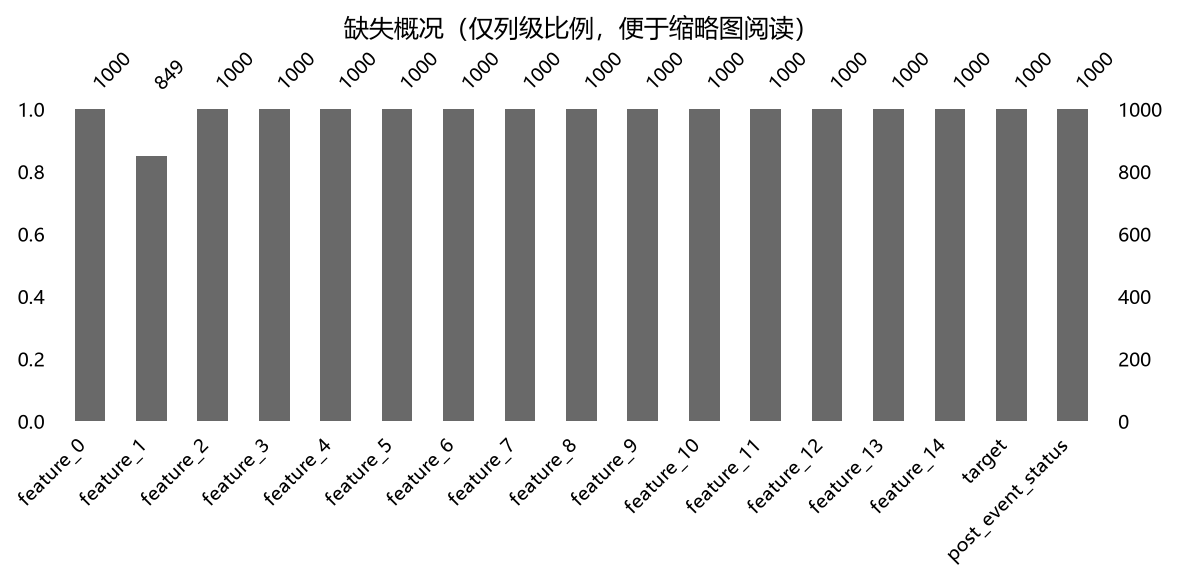
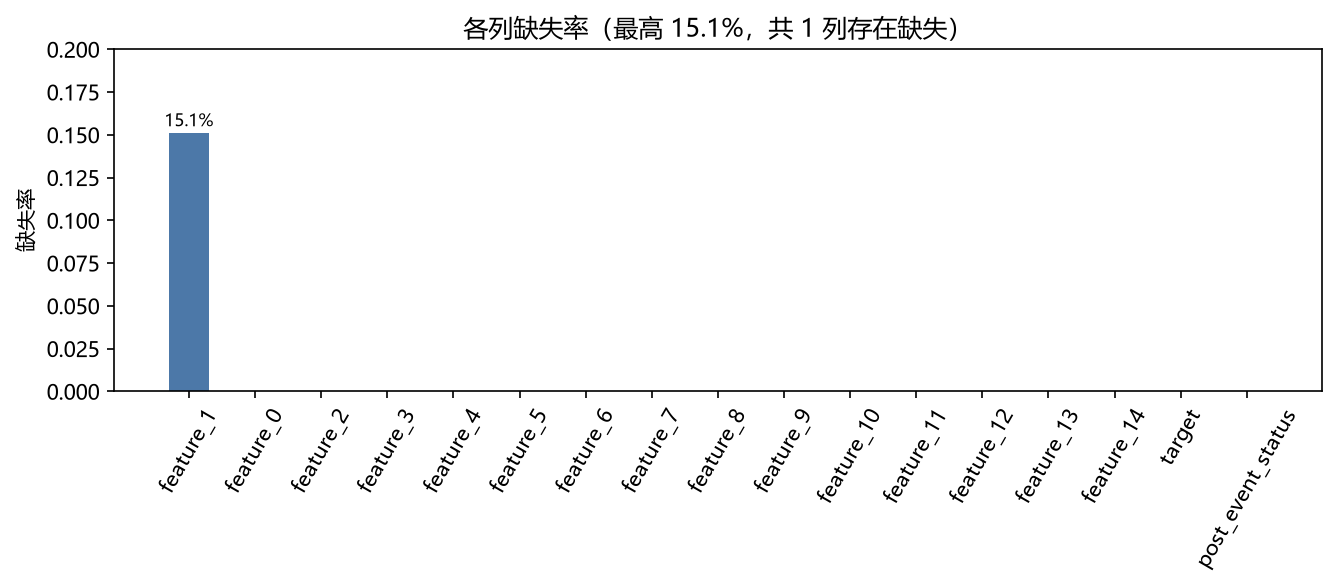
polish: 缺失率图改用真实缺失率，修正文案与数字不一致
- missing_bar.png: 不再用 msno.bar（画的是非空比例，柱子贴 1.0 会被读成 100% 缺失），
  改画各列缺失率、Y 轴 0-0.2、全部列并标注非零值
- 面板条目去掉重复的 AUC（列名后面已经带了 AUC）
- RESULTS: '脚本里没有列名字面量' 改为准确的'删除逻辑不硬编码列名'
- RESULTS: 新增第 5 节，记录真实数据集（UCI WDBC）上的处置决定：候选保留不删
- README: 测试数 20->26；删掉'尚未提供误报率基准'（已由第 3 节给出）
- pyproject: 移除不再使用的 missingno 依赖
- docs/screenshots/dashboard.png 换成能看见两个面板块的新截图

diff --git a/benchmarks/case_study.py b/benchmarks/case_study.py
@@ -17,7 +17,6 @@ from pathlib import Path
 os.environ.setdefault("MPLBACKEND", "Agg")
 
 import matplotlib.pyplot as plt  # noqa: E402
-import missingno as msno  # noqa: E402
 import numpy as np  # noqa: E402
 import pandas as pd  # noqa: E402
 import seaborn as sns  # noqa: E402
@@ -86,7 +85,7 @@ def run_case_study(df: pd.DataFrame) -> dict:
     X_all = df.drop(columns=["target"]).fillna(0)
     auc_with = cross_val_score(clf, X_all, y, cv=5, scoring="roc_auc").mean()
 
-    # 关键：删哪些列由工具输出决定，脚本里没有出现列名字面量
+    # 关键：删哪些列由工具输出决定，删除逻辑里不出现列名字面量
     X_clean = X_all.drop(columns=flagged)
     auc_without = cross_val_score(clf, X_clean, y, cv=5, scoring="roc_auc").mean()
 
@@ -273,11 +272,19 @@ def cluster_dedup() -> dict:
 def make_figures(df: pd.DataFrame) -> None:
     FIG.mkdir(parents=True, exist_ok=True)
 
-    # 图 1：缺失概况。只画有缺失的列 + 用 bar 而不是 matrix，
-    # 否则 1000×16 的矩阵在缩略图里就是一块黑。
-    plt.figure(figsize=(8, 4))
-    msno.bar(df, figsize=(8, 4), fontsize=9, labels=True)
-    plt.title("缺失概况（仅列级比例，便于缩略图阅读）")
+    # 图 1：缺失率。不用 msno.bar —— 它画的是非空比例，柱子齐刷刷贴到 1.0，
+    # 配上「缺失概况」的标题会被读成「每列 100% 缺失」。
+    # 全部列都画出来（哪怕缺失率是 0），这样「只有一列有缺失」也是一眼可见的信息。
+    rates = df.isna().mean().sort_values(ascending=False)
+    fig, ax = plt.subplots(figsize=(9, 4))
+    ax.bar(rates.index.astype(str), rates.values, color="#4c78a8", width=0.6)
+    ax.set_ylabel("缺失率")
+    ax.set_ylim(0, max(0.2, float(rates.max()) * 1.3))
+    ax.set_title(f"各列缺失率（最高 {rates.max():.1%}，共 {int((rates > 0).sum())} 列存在缺失）")
+    ax.tick_params(axis="x", rotation=60)
+    for i, v in enumerate(rates.values):
+        if v > 0:
+            ax.text(i, v + 0.004, f"{v:.1%}", ha="center", fontsize=8)
     plt.tight_layout()
     plt.savefig(FIG / "missing_bar.png", bbox_inches="tight", dpi=150)
     plt.close()
@@ -336,7 +343,7 @@ def write_results(case: dict, fixtures: list[dict], err: dict, dedup: dict) -> N
 
     add("## 1. 案例研究：删哪一列由工具决定\n")
     add(
-        "脚本里**没有出现泄漏列名的字面量**：`scan_leakage()` 先给出候选，"
+        "**删除逻辑不硬编码列名**：`scan_leakage()` 先给出候选，"
         "下游 `drop()` 用的就是它的返回值。\n"
     )
     add("| 项目 | 结果 |")
@@ -424,7 +431,27 @@ def write_results(case: dict, fixtures: list[dict], err: dict, dedup: dict) -> N
         "且没有丢掉最强信号\n"
     )
 
-    add("## 5. 复现\n")
+    add("## 5. 真实数据集上的一次处置决定（UCI WDBC，569 × 31）\n")
+    add(
+        "`real_cancer.csv` 不是合成数据：它来自 UCI Breast Cancer Wisconsin（诊断）数据集，"
+        "目标是「恶性 / 良性」。工具在上面报了以下候选：\n"
+    )
+    for col, auc in dedup["reported"]:
+        add(f"- `{col}`：单特征 AUC **{auc:.3f}**")
+    add("")
+    add(
+        "**处置决定：全部保留，不按泄漏处理。** 理由有两条——\n"
+        "1. 它们确实是真实强信号：细胞核的周长与凹陷程度是临床上判断恶性的核心形态学指标，"
+        "公开文献里这类诊断模型的 AUC 普遍在 0.95 以上，单特征到 0.97 并不异常；\n"
+        "2. 预测时点可得：它们是穿刺活检图像的测量结果，与标签出自同一次检查，"
+        "不属于「事后才知道」的信息。\n"
+    )
+    add(
+        "> 这条记录本身就是结论：工具的输出是**待核实的候选**，不是判决。"
+        "把「高 AUC → 直接删列」自动化掉，等于把真实信号一起删了。\n"
+    )
+
+    add("## 6. 复现\n")
     add("```bash")
     add('pip install -e ".[bench]"')
     add("python benchmarks/case_study.py    # 重跑全部表格与图片")

diff --git a/src/dq_doctor/tools/leakage.py b/src/dq_doctor/tools/leakage.py
@@ -100,7 +100,7 @@ def scan_leakage(
                         perfect_predictors.append({
                             "column": col,
                             "single_feature_auc": round(float(auc), 3),
-                            "risk": f"单特征 AUC={auc:.3f}。预测能力异常高，高度疑似目标泄漏。",
+                            "risk": "预测能力异常高，高度疑似目标泄漏。",
                         })
                         candidate_cols.append(col)
                 except Exception:

diff --git a/benchmarks/RESULTS.md b/benchmarks/RESULTS.md
@@ -4,7 +4,7 @@
 
 ## 1. 案例研究：删哪一列由工具决定
 
-脚本里**没有出现泄漏列名的字面量**：`scan_leakage()` 先给出候选，下游 `drop()` 用的就是它的返回值。
+**删除逻辑不硬编码列名**：`scan_leakage()` 先给出候选，下游 `drop()` 用的就是它的返回值。
 
 | 项目 | 结果 |
 | --- | --- |
@@ -54,7 +54,20 @@
 - 聚类后输出：**2 个** —— `worst perimeter (0.975)`、`worst concave points (0.967)`
 - 噪音降低 60%，且没有丢掉最强信号
 
-## 5. 复现
+## 5. 真实数据集上的一次处置决定（UCI WDBC，569 × 31）
+
+`real_cancer.csv` 不是合成数据：它来自 UCI Breast Cancer Wisconsin（诊断）数据集，目标是「恶性 / 良性」。工具在上面报了以下候选：
+
+- `worst perimeter`：单特征 AUC **0.975**
+- `worst concave points`：单特征 AUC **0.967**
+
+**处置决定：全部保留，不按泄漏处理。** 理由有两条——
+1. 它们确实是真实强信号：细胞核的周长与凹陷程度是临床上判断恶性的核心形态学指标，公开文献里这类诊断模型的 AUC 普遍在 0.95 以上，单特征到 0.97 并不异常；
+2. 预测时点可得：它们是穿刺活检图像的测量结果，与标签出自同一次检查，不属于「事后才知道」的信息。
+
+> 这条记录本身就是结论：工具的输出是**待核实的候选**，不是判决。把「高 AUC → 直接删列」自动化掉，等于把真实信号一起删了。
+
+## 6. 复现
 
 ```bash
 pip install -e ".[bench]"

diff --git a/README.md b/README.md
@@ -118,7 +118,7 @@ dq-doctor/
 │   └── tools/
 │       ├── missingness.py      # Little's MCAR + FDR 校正的 MNAR 检测
 │       └── leakage.py          # AUC / ID / 常量列 / 同源特征扫描
-├── tests/                      # 20 个测试，无需 API Key
+├── tests/                      # 26 个测试，无需 API Key
 ├── benchmarks/                 # 案例研究：删除泄漏特征后 AUC 从 1.000 → 0.910
 └── data/                       # 示例数据集（含真实乳腺癌数据集）
 ```
@@ -141,7 +141,7 @@ CI 在 Python 3.10 / 3.11 / 3.12 上运行，并且**刻意在无 `DEEPSEEK_API_
 诚实说明当前版本的边界：
 
 - **仅支持二分类目标**。多分类/回归会显式跳过泄漏扫描（AUC 不适用），不会给出错误结论。
-- **高 AUC ≠ 泄漏**。乳腺癌数据集的 `worst perimeter`（AUC 0.975）就是合法强特征。当前阈值（0.95）为硬编码，尚未提供误报率基准。
+- **高 AUC ≠ 泄漏**。乳腺癌数据集的 `worst perimeter`（AUC 0.975）就是合法强特征。当前阈值（0.95）为硬编码：400 次蒙特卡洛实测误报率 **0.0%**，代价是 0.92 附近的真实泄漏会被漏掉（见 [benchmarks/RESULTS.md](benchmarks/RESULTS.md) 第 3 节）。
 - **时序泄漏未覆盖**。`state.time_col` 已预留但尚未实现"未来信息"检测。
 - **Little's MCAR 只能否证 MCAR**，无法区分 MAR 与 MNAR；"MNAR 嫌疑"来自缺失指示变量与标签的关联检验，属启发式判断。
 
